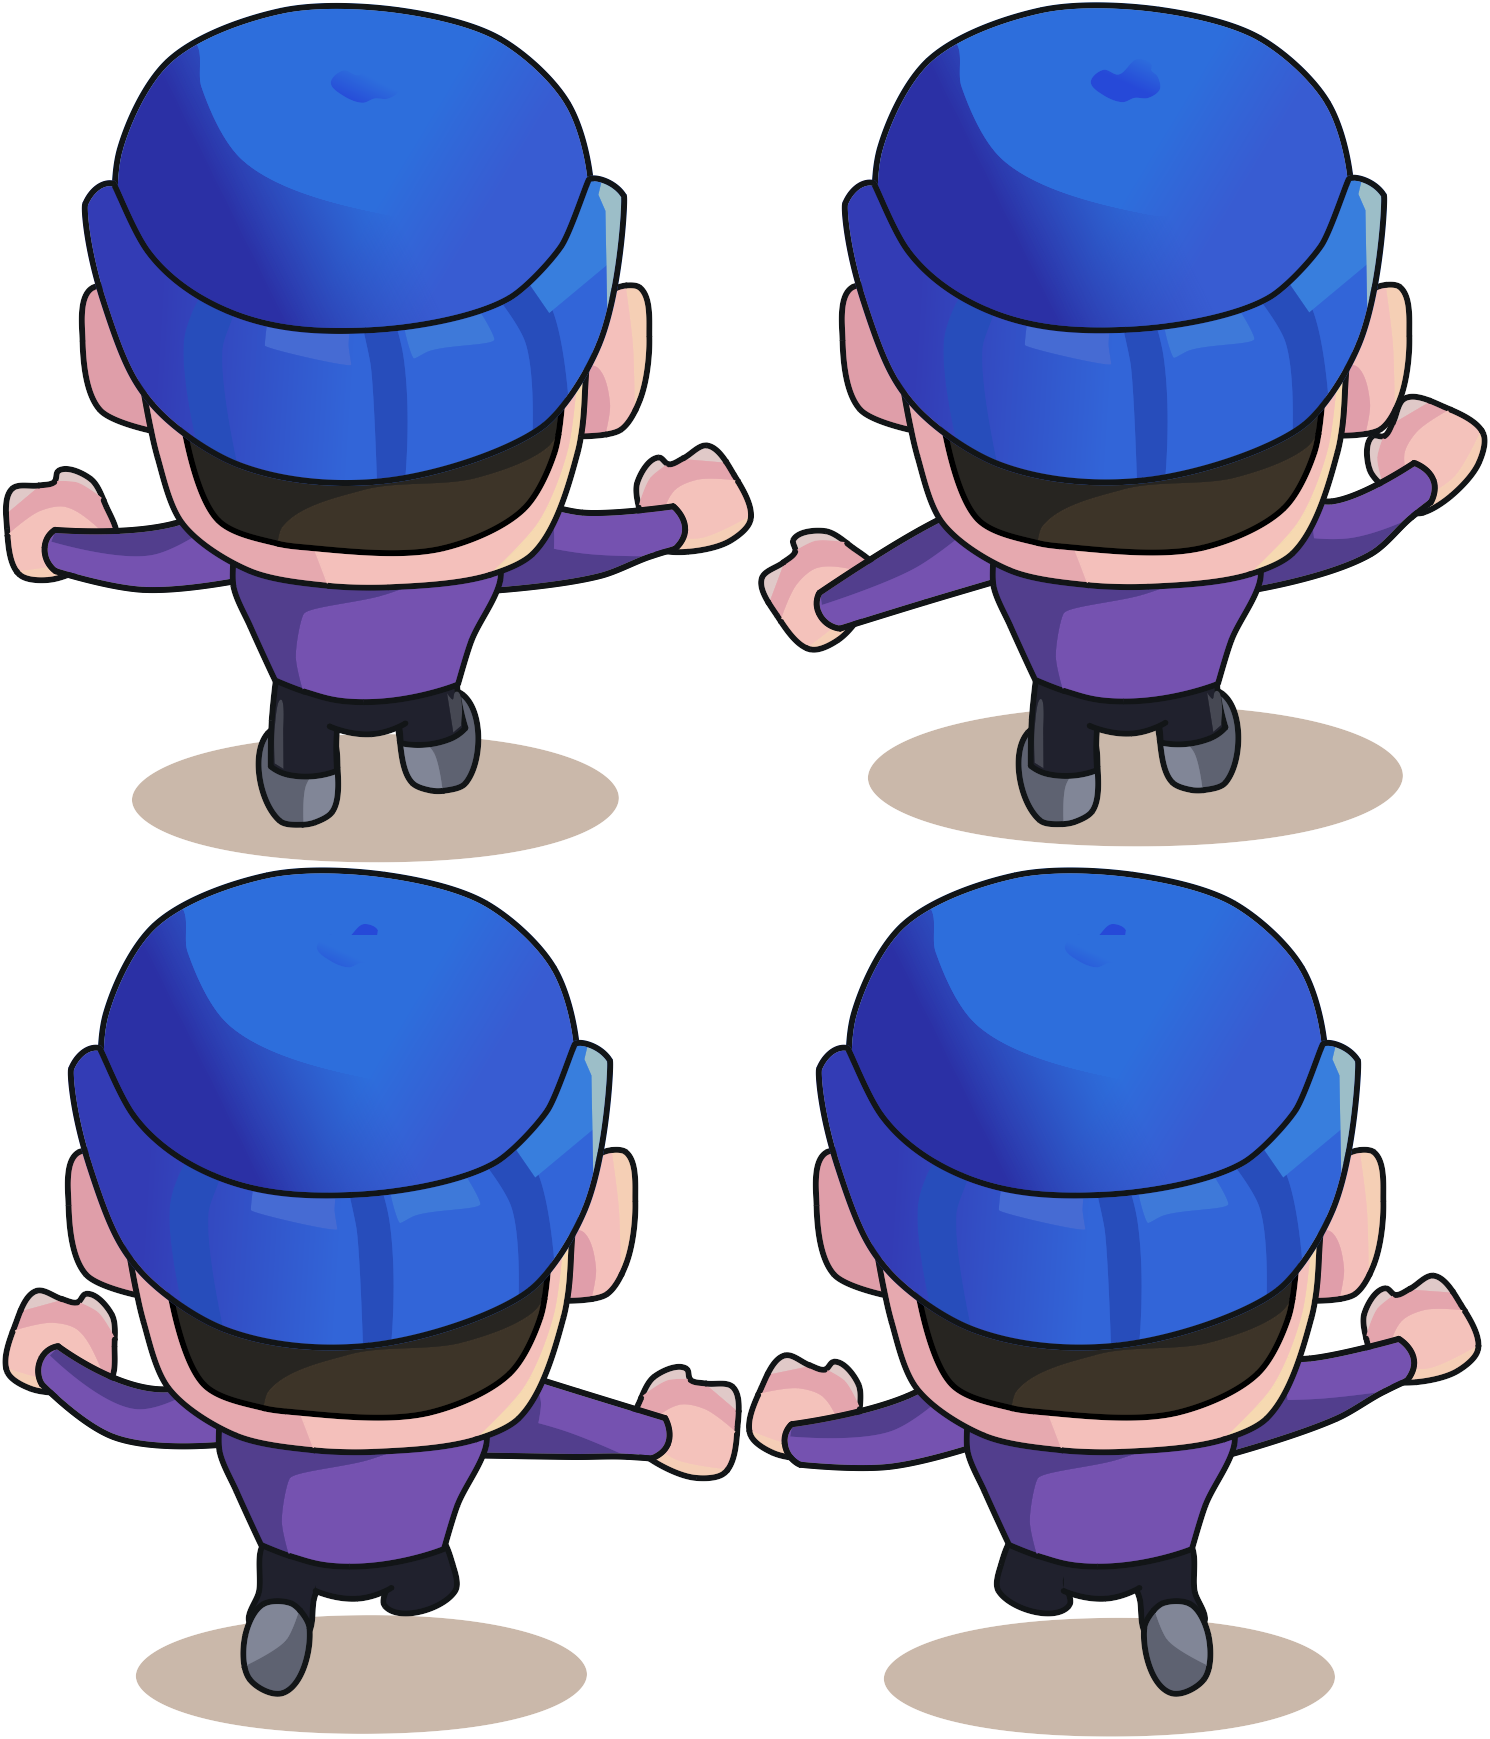
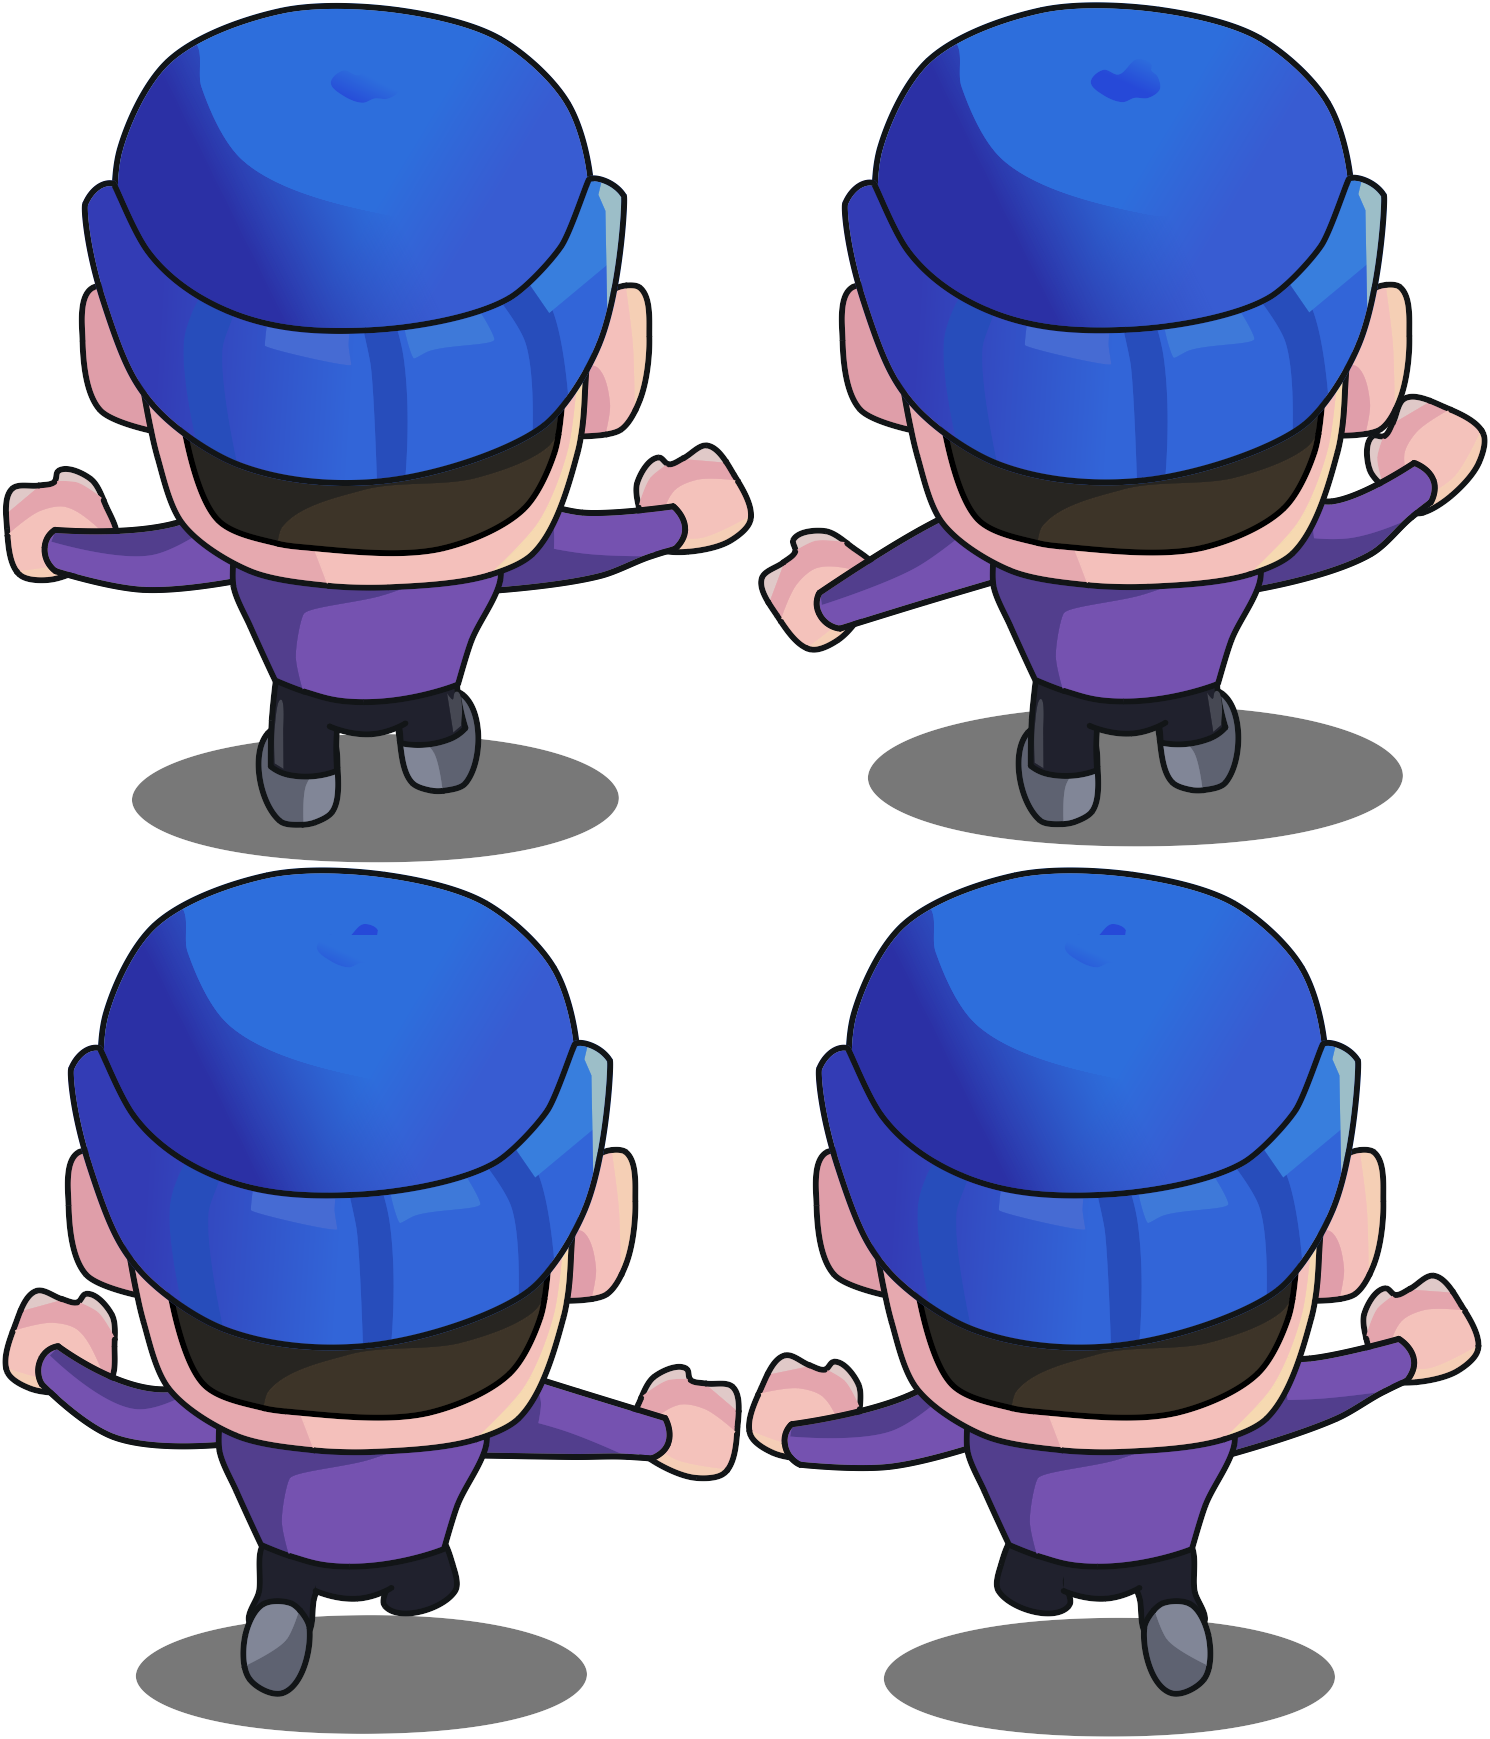
fix: gon back view shadow animation

diff --git a/app/src/pages/Game/components/popup/PopupTxnProcessingSwap.js b/app/src/pages/Game/components/popup/PopupTxnProcessingSwap.js
@@ -5,7 +5,7 @@ import TextButton from '../button/TextButton';
 import configs from '../../configs/configs';
 import environments from '../../../../utils/environments';
 import { colors, fontFamilies, fontSizes } from '../../../../utils/styles';
-import { BASESCAN_PREFIX } from './PopupTxnProcessing';
+import { BASESCAN_PREFIX } from './PopupTxnCompleted';
 
 const { width, height } = configs;
 const { NETWORK_ID } = environments;

diff --git a/app/src/pages/Game/components/common/Animation.js b/app/src/pages/Game/components/common/Animation.js
@@ -65,7 +65,7 @@ class Animation extends Phaser.GameObjects.Container {
       start: 1,
       end: 78,
       zeroPad: 5,
-      prefix: 'goon_back_view_running_cycle_sequence_',
+      prefix: 'goon_back_view_running_cycle_black_shadow_',
       suffix: '.png',
     });
 
